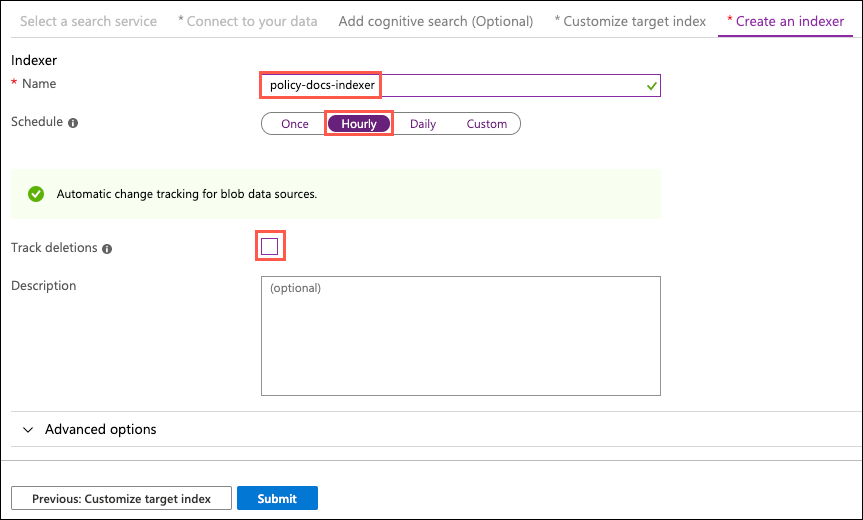
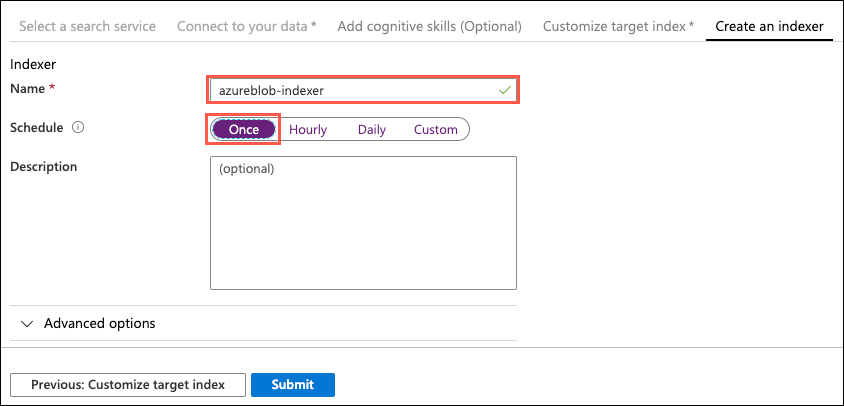
Exercise 8 updates

diff --git a/Hands-on lab/HOL step-by-step - App modernization.md b/Hands-on lab/HOL step-by-step - App modernization.md
@@ -138,7 +138,7 @@ Before you begin the assessment, you need to configure the `ContosoInsurance` da
 
 > **Note**: There is a known issue with screen resolution when using an RDP connection to Windows Server 2008 R2, which may affect some users. This issue presents itself as very small, hard to read text on the screen. The workaround for this is to use a second monitor for the RDP display, which should allow you to scale up the resolution to make the text larger.
 
-1. In the [Azure portal](https://portal.azure.com), navigate to your **SqlServer2008** VM by selecting **Resource groups** from the left-hand navigation menu, selecting the **hands-on-lab-SUFFIX** resource group, and selecting the **SqlServer2008** VM from the list of resources.
+1. In the [Azure portal](https://portal.azure.com), navigate to your **SqlServer2008** VM by selecting **Resource groups** from Azure services list, selecting the **hands-on-lab-SUFFIX** resource group, and selecting the **SqlServer2008** VM from the list of resources.
 
    ![The SqlServer2008 virtual machine is highlighted in the list of resources.](media/resources-sql-server-2008-vm.png "SQL Server 2008 VM")
 
@@ -323,7 +323,7 @@ After you have reviewed the assessment results and you have ensured the database
 
 5. Select **Next**.
 
-6. For the **Select target** tab, retrieve the server name associated with your Azure SQL Database. In the [Azure portal](https://portal.azure.com), navigate to your **SQL database** resource by selecting **Resource groups** from the left-hand navigation menu, selecting the **hands-on-lab-SUFFIX** resource group, and then selecting the **ContosoInsurance** SQL database resource from the list of resources.
+6. For the **Select target** tab, retrieve the server name associated with your Azure SQL Database. In the [Azure portal](https://portal.azure.com), navigate to your **SQL database** resource by selecting **Resource groups** from Azure services list, selecting the **hands-on-lab-SUFFIX** resource group, and then selecting the **ContosoInsurance** SQL database resource from the list of resources.
 
    ![The contosoinsurance SQL database resource is highlighted in the list of resources.](media/resources-azure-sql-database.png "SQL database")
 
@@ -431,7 +431,7 @@ At this point, you have migrated the database schema using DMA. In this task, yo
 
 > The [Azure Database Migration Service](https://docs.microsoft.com/azure/dms/dms-overview) integrates some of the functionality of Microsoft existing tools and services to provide customers with a comprehensive, highly available database migration solution. The service uses the Data Migration Assistant to generate assessment reports that provide recommendations to guide you through the changes required prior to performing a migration. When you're ready to begin the migration process, Azure Database Migration Service performs all of the required steps.
 
-1. In the [Azure portal](https://portal.azure.com), navigate to your Azure Database Migration Service by selecting **Resource groups** from the left-hand navigation menu, selecting the **hands-on-lab-SUFFIX** resource group, and then selecting the **contoso-dms-UniqueId** Azure Database Migration Service in the list of resources.
+1. In the [Azure portal](https://portal.azure.com), navigate to your Azure Database Migration Service by selecting **Resource groups** from Azure services list, selecting the **hands-on-lab-SUFFIX** resource group, and then selecting the **contoso-dms-UniqueId** Azure Database Migration Service in the list of resources.
 
    ![The contoso-dms Azure Database Migration Service is highlighted in the list of resources in the hands-on-lab-SUFFIX resource group.](media/resource-group-dms-resource.png "Resources")
 
@@ -527,7 +527,7 @@ In this exercise you explore some of the security features of Azure SQL Database
 
 In this task, you look at the [SQL Data Discovery and Classification](https://docs.microsoft.com/sql/relational-databases/security/sql-data-discovery-and-classification?view=sql-server-2017) feature of Advanced Data Security. Data Discovery & Classification introduces a new tool for discovering, classifying, labeling & reporting the sensitive data in your databases. It introduces a set of advanced services, forming a new SQL Information Protection paradigm aimed at protecting the data in your database, not just the database. Discovering and classifying your most sensitive data (business, financial, healthcare, etc.) can play a pivotal role in your organizational information protection stature.
 
-1. In the [Azure portal](https://portal.azure.com), navigate to your **SQL database** resource by selecting **Resource groups** from the left-hand navigation menu, selecting the **hands-on-lab-SUFFIX** resource group, and then selecting the **ContosoInsurance** SQL database resource from the list of resources.
+1. In the [Azure portal](https://portal.azure.com), navigate to your **SQL database** resource by selecting **Resource groups** from Azure services list, selecting the **hands-on-lab-SUFFIX** resource group, and then selecting the **ContosoInsurance** SQL database resource from the list of resources.
 
    ![The contosoinsurance SQL database resource is highlighted in the list of resources.](media/resources-azure-sql-database.png "SQL database")
 
@@ -702,7 +702,7 @@ As part of their efforts to put tighter security controls in place, Contoso has 
 
 In this task, you add an access policy to Key Vault to allow secrets to be created with your account.
 
-1. In the [Azure portal](https://portal.azure.com), navigate to your **Key Vault** resource by selecting **Resource groups** from the left-hand navigation menu, selecting the **hands-on-lab-SUFFIX** resource group, and then selecting the **contoso-kv-UniqueId** Key vault resource from the list of resources.
+1. In the [Azure portal](https://portal.azure.com), navigate to your **Key Vault** resource by selecting **Resource groups** from Azure services list, selecting the **hands-on-lab-SUFFIX** resource group, and then selecting the **contoso-kv-UniqueId** Key vault resource from the list of resources.
 
    ![The contosokv Key vault resource is highlighted in the list of resources.](media/azure-resources-key-vault.png "Key vault")
 
@@ -731,7 +731,7 @@ In this task, you add an access policy to Key Vault to allow secrets to be creat
 
 In this task, you add a secret to Key Vault containing the connection string for the `ContosoInsurance` Azure SQL database.
 
-1. First, you need to retrieve the connection string to your Azure SQL Database. In the [Azure portal](https://portal.azure.com), navigate to your **SQL database** resource by selecting **Resource groups** from the left-hand navigation menu, selecting the **hands-on-lab-SUFFIX** resource group, and then selecting the **ContosoInsurance** SQL database resource from the list of resources.
+1. First, you need to retrieve the connection string to your Azure SQL Database. In the [Azure portal](https://portal.azure.com), navigate to your **SQL database** resource by selecting **Resource groups** from Azure services list, selecting the **hands-on-lab-SUFFIX** resource group, and then selecting the **ContosoInsurance** SQL database resource from the list of resources.
 
    ![The contosoinsurance SQL database resource is highlighted in the list of resources.](media/resources-azure-sql-database.png "SQL database")
 
@@ -751,7 +751,7 @@ In this task, you add a secret to Key Vault containing the connection string for
 
 6. Copy your updated connection string from the text editor.
 
-7. In the [Azure portal](https://portal.azure.com), navigate back to your **Key Vault** resource by selecting **Resource groups** from the left-hand navigation menu, selecting the **hands-on-lab-SUFFIX** resource group, and then selecting the **contoso-kv-UniqueId** Key vault resource from the list of resources.
+7. In the [Azure portal](https://portal.azure.com), navigate back to your **Key Vault** resource by selecting **Resource groups** from Azure services list, selecting the **hands-on-lab-SUFFIX** resource group, and then selecting the **contoso-kv-UniqueId** Key vault resource from the list of resources.
 
    ![The contosokv Key vault resource is highlighted in the list of resources.](media/azure-resources-key-vault.png "Key vault")
 
@@ -855,7 +855,7 @@ The developers at Contoso have been working toward migrating their apps to the c
 
 In this task, you open an RDP connection to the LabVM, and downloading a copy of the starter solution provided by Contoso. The application deployments are handled using Visual Studio 2019, installed on the LabVM.
 
-1. In the [Azure portal](https://portal.azure.com), navigate to your **LabVM** virtual machine by selecting **Resource groups** from the left-hand navigation menu, selecting the **hands-on-lab-SUFFIX** resource group, and selecting the **LabVM** virtual machine from the list of resources.
+1. In the [Azure portal](https://portal.azure.com), navigate to your **LabVM** virtual machine by selecting **Resource groups** from Azure services list, selecting the **hands-on-lab-SUFFIX** resource group, and selecting the **LabVM** virtual machine from the list of resources.
 
    ![The LabVM virtual machine is highlighted in the list of resources.](media/resources-sql-labvm.png "LabVM virtual machine")
 
@@ -953,7 +953,7 @@ In this task, you update the `Contoso.WebApi` project to use Azure Key Vault for
 
 Before deploying the Web API to Azure, you need to add the required application settings into the configuration for the Azure API App. In this task, you use the advanced configuration editor in your API App to add in the configuration settings required to connect to and retrieve secrets from Key Vault.
 
-1. In the [Azure portal](https://portal.azure.com), navigate to your **API App** by selecting **Resource groups** from the left-hand navigation menu, selecting the **hands-on-lab-SUFFIX** resource group, and selecting the **contoso-api-UniqueId** App service from the list of resources.
+1. In the [Azure portal](https://portal.azure.com), navigate to your **API App** by selecting **Resource groups** from Azure services list, selecting the **hands-on-lab-SUFFIX** resource group, and selecting the **contoso-api-UniqueId** App service from the list of resources.
 
    ![The API App resource is highlighted in the list of resources.](media/azure-resources-api-app.png "API App")
 
@@ -1174,7 +1174,7 @@ Contoso is currently storing all of their scanned PDF documents on a shared loca
 
 In this task, you create a new blob container in your storage account for the scanned PDF policy documents.
 
-1. In the [Azure portal](https://portal.azure.com), navigate to your **Storage account** resource by selecting **Resource groups** from the left-hand navigation menu, selecting the **hands-on-lab-SUFFIX** resource group, and then selecting the **contosoUniqueId** Storage account resource from the list of resources.
+1. In the [Azure portal](https://portal.azure.com), navigate to your **Storage account** resource by selecting **Resource groups** from Azure services list, selecting the **hands-on-lab-SUFFIX** resource group, and then selecting the **contosoUniqueId** Storage account resource from the list of resources.
 
     ![The Storage Account resource is highlighted in the list of resources.](media/resource-group-resources-storage-account.png "Storage account")
 
@@ -1434,7 +1434,7 @@ In this task, you deploy your function into an Azure Function App, where the web
 
 In this task, you add Application Insights to your Function App in the Azure Portal, to be able to collect insights into requests against the Function.
 
-1. In the [Azure portal](https://portal.azure.com), navigate to your **Function App** by selecting **Resource groups** from the left-hand navigation menu, selecting the **hands-on-lab-SUFFIX** resource group, and selecting the **contoso-func-UniqueId** App service from the list of resources.
+1. In the [Azure portal](https://portal.azure.com), navigate to your **Function App** by selecting **Resource groups** from Azure services list, selecting the **hands-on-lab-SUFFIX** resource group, and selecting the **contoso-func-UniqueId** App service from the list of resources.
 
    ![The Function App resource is highlighted in the list of resources.](media/azure-resources-function-app.png "Function App")
 
@@ -1571,7 +1571,7 @@ Contoso has requested the ability to perform full-text searching on policy docum
 
 ### Task 1: Add Azure Cognitive Search to Storage account
 
-1. In the [Azure portal](https://portal.azure.com), navigate to your **Storage account** resource by selecting **Resource groups** from the left-hand navigation menu, selecting the **hands-on-lab-SUFFIX** resource group, and then selecting the **contoso-UniqueId** Storage account resource from the list of resources.
+1. In the [Azure portal](https://portal.azure.com), navigate to your **Storage account** resource by selecting **Resource groups** from Azure services list, selecting the **hands-on-lab-SUFFIX** resource group, and then selecting the **contoso-UniqueId** Storage account resource from the list of resources.
 
    ![The Storage Account resource is highlighted in the list of resources.](media/resource-group-resources-storage-account.png "Storage account")
 
@@ -1615,11 +1615,11 @@ Contoso has requested the ability to perform full-text searching on policy docum
 
 9. Select **Next: Create an indexer**.
 
-10. On the **Create an indexer** tab, enter **policy-docs-indexer** as the name, select **Hourly** for the schedule, uncheck **Track deletions**, and then select **Submit**.
+10. On the **Create an indexer** tab, enter **policy-docs-indexer** as the name, select **Once** for the schedule, and then select **Submit**.
 
     ![The name field and submit button are highlighted on the Create an indexer tab.](media/add-azure-search-create-an-indexer.png "Add Azure Search")
 
-    > **Note**: You may need to check and then uncheck Track deletions to remove the fields associated with tracking deletions from the UI.
+    > **Note**: For this hands-on lab, we are only running the indexer once, at the time of creation. In a production application, you would probably choose a schedule such as hourly or daily to run the indexer. This would allow you to bring in any new data that arrives in the target blob storage account.
 
 11. Within a few seconds, you receive a notification in the Azure portal that the import was successfully configured.
 
@@ -1627,7 +1627,7 @@ Contoso has requested the ability to perform full-text searching on policy docum
 
 In this task, you run a query against your search index to review the enrichments added by cognitive search to policy documents.
 
-1. In the [Azure portal](https://portal.azure.com), navigate to your **Search service** resource by selecting **Resource groups** from the left-hand navigation menu, selecting the **hands-on-lab-SUFFIX** resource group, and then selecting the **contoso-search-UniqueId** Search service resource from the list of resources.
+1. In the [Azure portal](https://portal.azure.com), navigate to your **Search service** resource by selecting **Resource groups** from Azure services list, selecting the **hands-on-lab-SUFFIX** resource group, and then selecting the **contoso-search-UniqueId** Search service resource from the list of resources.
 
    ![The Search service resource is highlighted in the list of resources.](media/azure-resources-search.png "Search service")
 
